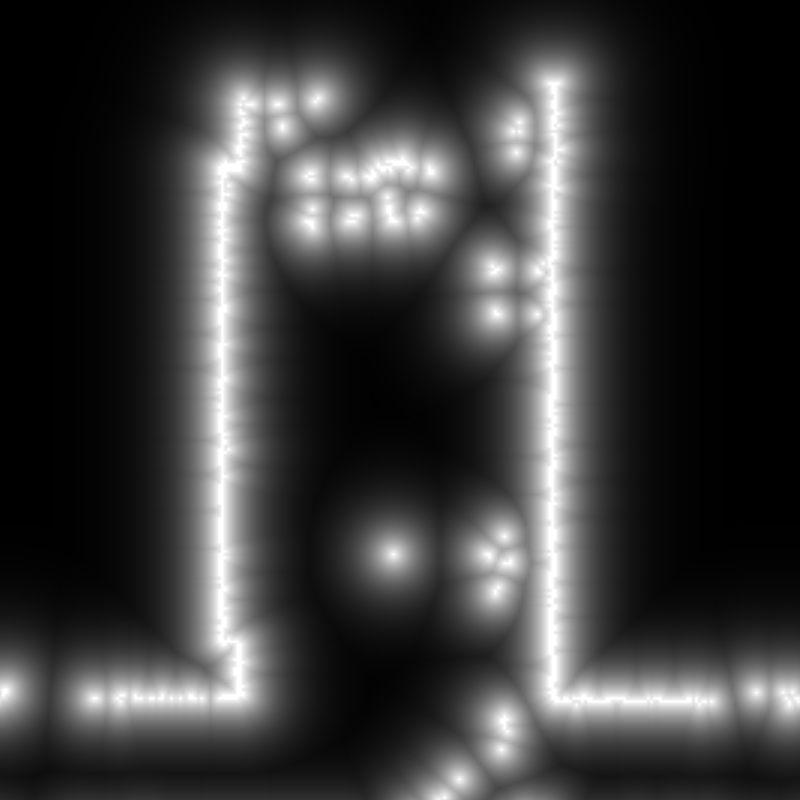
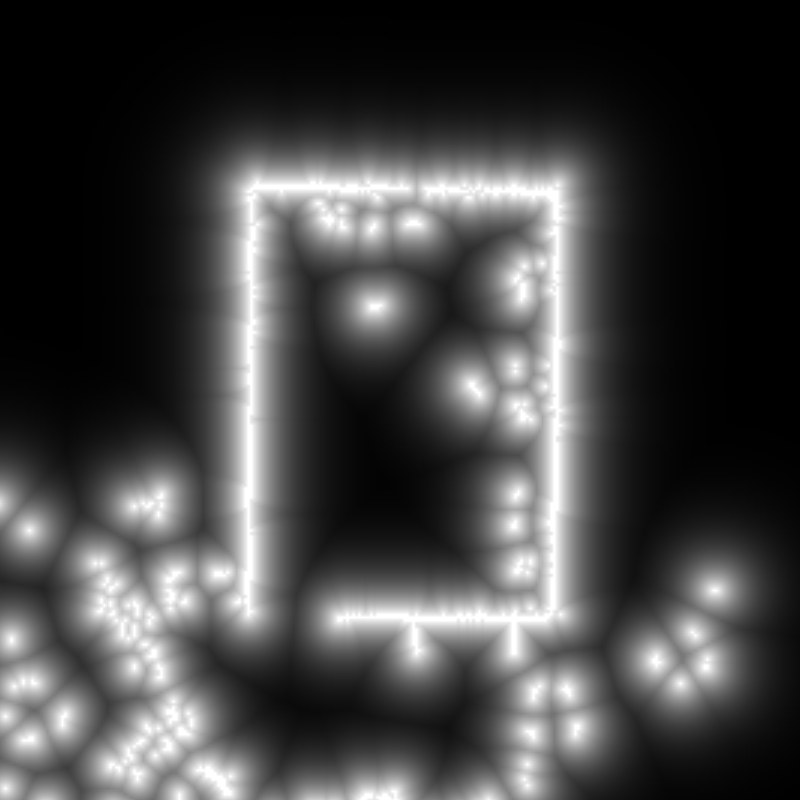
final after presentation

diff --git a/src/warehouse_navigation/mission_planner/mission_planner/vision.py b/src/warehouse_navigation/mission_planner/mission_planner/vision.py
@@ -44,8 +44,8 @@ OBSTACLE_MAX_RADIUS = 0.2       # Max radius in meters
 OBSTACLE_MAX_RANGE = 2.5         # Ignore points further than 4m
 OBSTACLE_MIN_ARC_ANGLE = 1.0    # Radians (approx 60 degrees). Filter out small arcs.
 # ---------------------------------
-# obstacle_publishing = True
-obstacle_publishing = False
+obstacle_publishing = True
+# obstacle_publishing = False
 
 # Global to share detected circles with the visualization thread
 latest_obstacles_vis = []
@@ -697,8 +697,8 @@ def localisation_thread_func():
                         velocity_proxy = displacement[0]**2 + displacement[1]**2
                         
                         # Stationary = High Odom Weight (0.95). Moving = Lower Odom Weight (0.75)
-                        # odometry_weight = 0.97 - min(0.20, 300.0 * velocity_proxy)
-                        odometry_weight = 1
+                        odometry_weight = 0.97 - min(0.20, 300.0 * velocity_proxy)
+                        # odometry_weight = 1
                         
                         if log_settings["localisation"]["odometry_weight"]:
                             print(f"Odom Weight: {odometry_weight:.3f}")